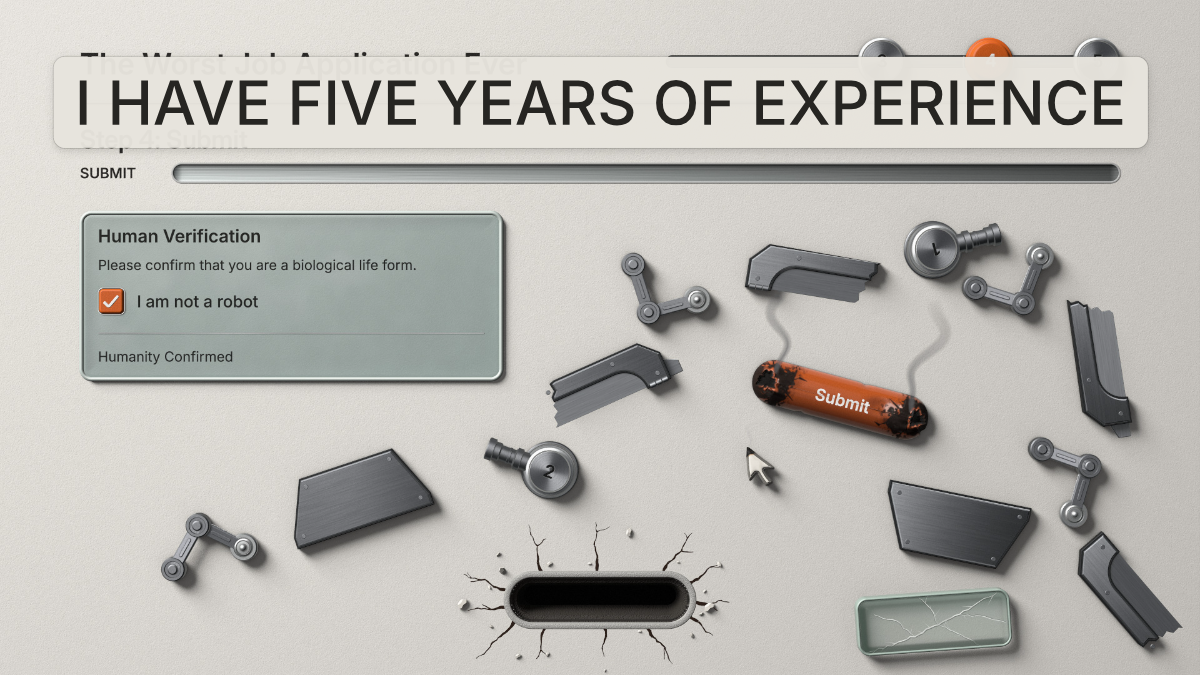
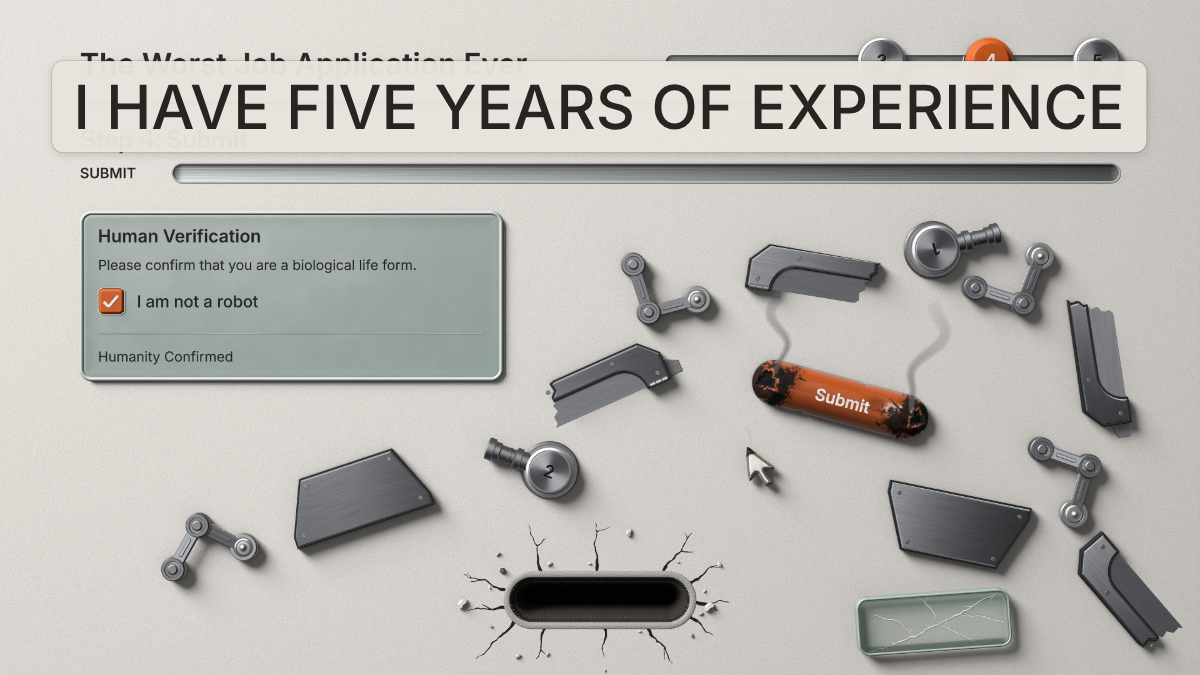
The shout grows by 1.25 a step: 62, 78 and 97 px of the 1920 page; the lists and the engine's record made again

Changed region(s): [[0.0617, 0.0622, 0.9558, 0.2489]]

diff --git a/tests/b-shell-script.test.ts b/tests/b-shell-script.test.ts
@@ -492,9 +492,9 @@ describe('the shout of the boss: a draft that builds on one row, a part a mark o
     expect(s.said().lines.map((l) => [l.words, l.step, l.whole])).toEqual([['ka', { k: 0, n: 3 }, 'ka me ha'], ['ka me ha', { k: 2, n: 3 }, 'ka me ha']])
     expect(filmCaptions([{ id: id('boss.finish.0'), frame: 0 }], 60, standIns(film, drafts)).map((c) => c.step)).toEqual([{ k: 0, n: 3 }, { k: 1, n: 3 }, { k: 2, n: 3 }])
     expect(filmCaptions([{ id: id('boss.verify.0'), frame: 0 }], 60, standIns(film, drafts)).every((c) => c.step === undefined)).toBe(true)
-    expect([0, 1, 2, 3, 4].map((k) => Math.round(shoutPx(k, 5)))).toEqual([150, 168, 188, 211, 240])
-    expect([0, 1, 2].map((k) => Math.round(shoutPx(k, 3)))).toEqual([150, 168, 240])
-    expect([0, 1, 2, 3, 4].map((k) => Math.round(shoutPx(k, 5, 166)))).toEqual([105, 118, 132, 148, 166])
+    expect([0, 1, 2, 3, 4].map((k) => Math.round(shoutPx(k, 5)))).toEqual([98, 123, 154, 192, 240])
+    expect([0, 1, 2].map((k) => Math.round(shoutPx(k, 3)))).toEqual([150, 188, 240])
+    expect([0, 1, 2, 3, 4].map((k) => Math.round(shoutPx(k, 5, 166)))).toEqual([68, 85, 106, 133, 166])
     for (const n of [3, 4, 5, 6]) for (const most of [60, 166, 240, 400]) for (let k = 1; k < n; k++) expect(shoutPx(k, n, most)).toBeGreaterThan(shoutPx(k - 1, n, most))
     for (const t of [0, 0.01, 0.37, 2.2]) {
       const off = shoutShake(t)

diff --git a/src/ui/said.ts b/src/ui/said.ts
@@ -86,7 +86,7 @@ export const CAPTION = {
   // A line that builds one part a mark on one row (the shout of the boss): px of the first step, the growth a step, the most px of the last, the y of the panel's upper edge
   // and the lowest its lower edge may come (the top band of the screen), the widest it gets, its line height, and the px and turns a second by which the last step shakes.
   // The whole line at its last step is fitted into that band, and every step before it is one growth smaller, so the type never shrinks.
-  shout: { firstPx: 150, grow: 1.12, lastPx: 240, top: 96, low: 330, wide: 1760, lineHigh: 1, shakePx: 5, shakeHz: 17 },
+  shout: { firstPx: 150, grow: 1.25, lastPx: 240, top: 96, low: 330, wide: 1760, lineHigh: 1, shakePx: 5, shakeHz: 17 },
   fontPx: 26,
   // The size of a loud phrase, shown in capitals.
   loudFontPx: 64,
